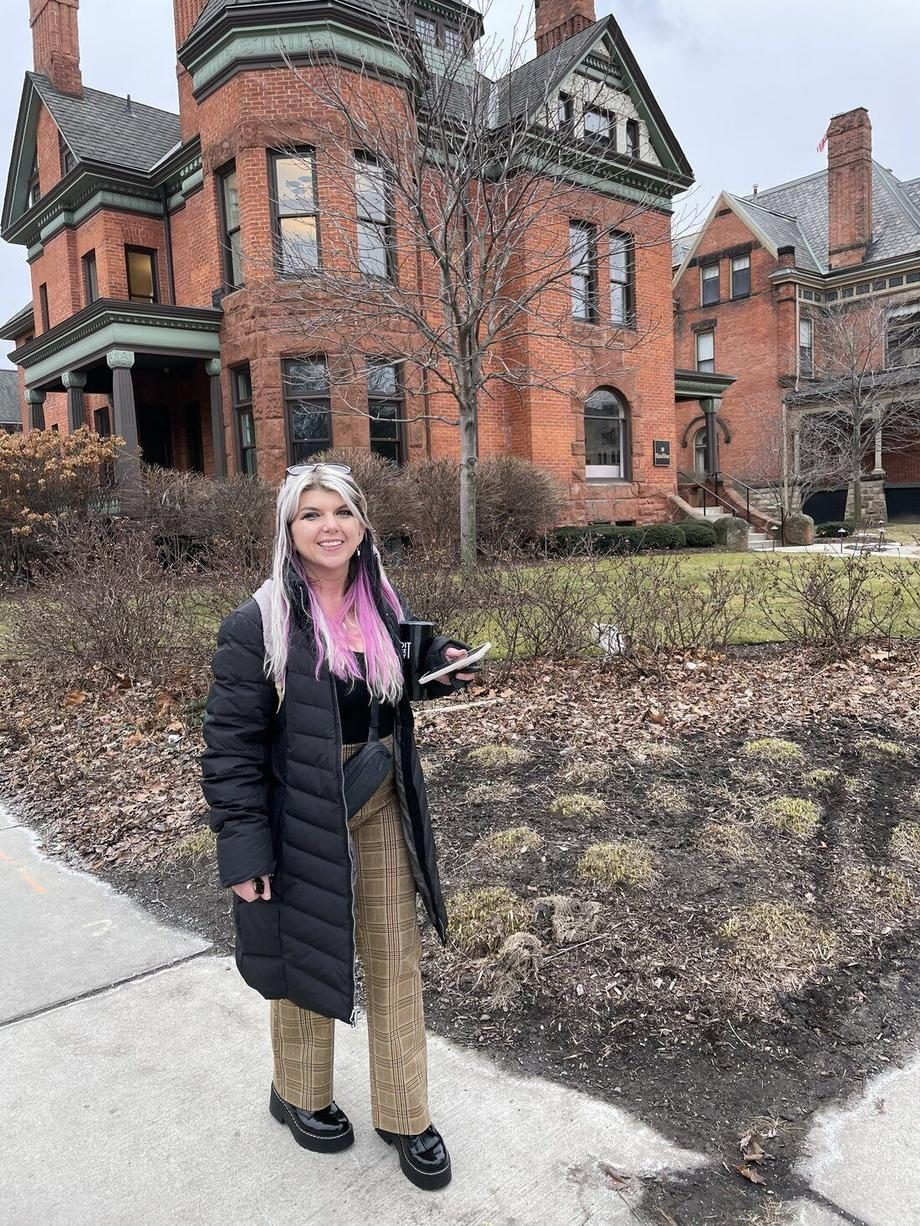
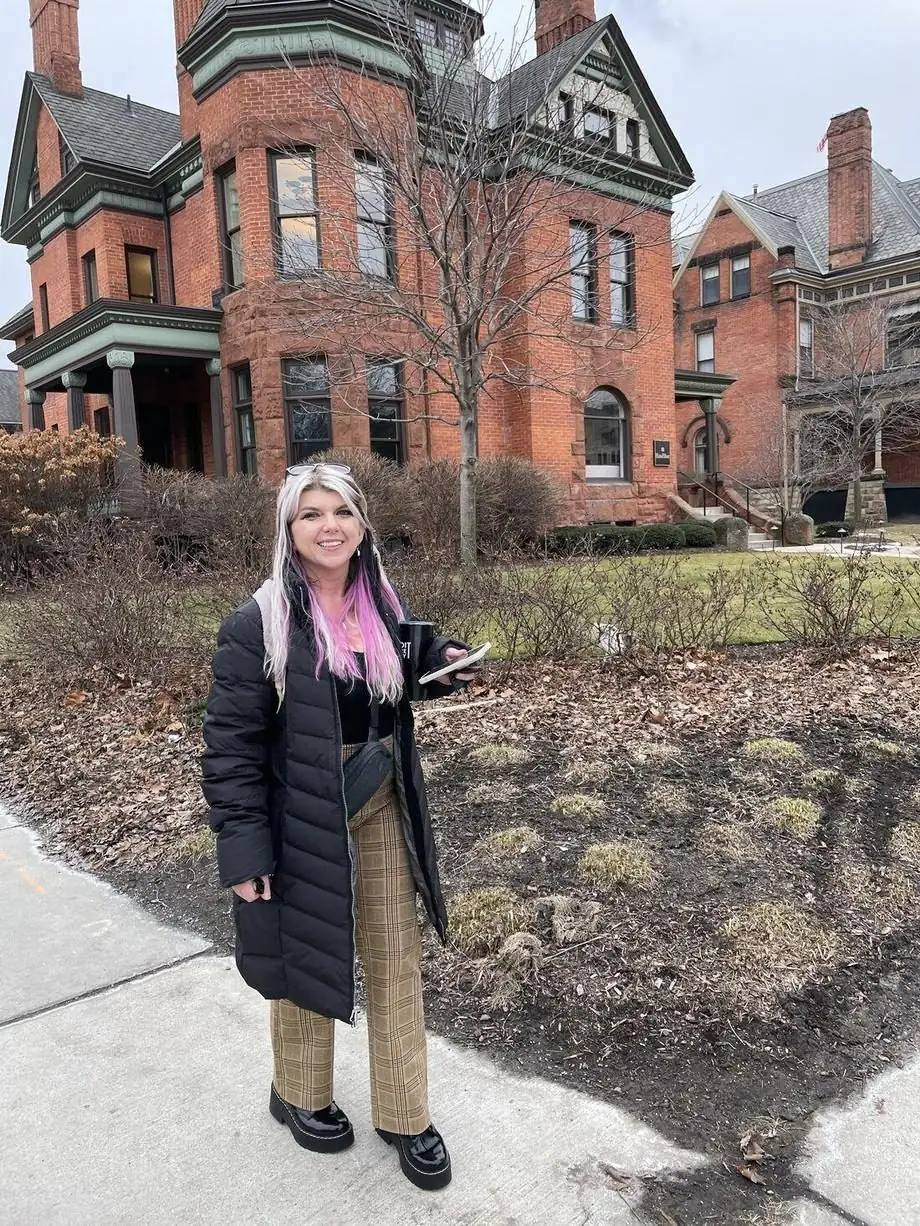
PageSpeed: stop font layout shift (display=optional), responsive hero image, contrast fixes, accurate hero alt text
Claude-Session: https://claude.ai/code/session_013Vc8LnxvvY7V6sP34YqWDe

diff --git a/fractional-cmo-detroit.html b/fractional-cmo-detroit.html
@@ -9,9 +9,9 @@
 <meta property="og:title" content="Fractional CMO in Detroit, Michigan"><meta property="og:description" content="Fractional CMO and VP of Growth in Detroit, Michigan. Senior marketing leadership part-time, for companies at $1M to $50M. Strategy, systems, and AI.">
 <meta property="og:url" content="https://frdtlab.com/fractional-cmo-detroit"><meta property="og:image" content="https://frdtlab.com/og-fractional-cmo-detroit.jpg"><meta property="og:image:alt" content="Fractional CMO in Detroit, Michigan"><meta name="twitter:image" content="https://frdtlab.com/og-fractional-cmo-detroit.jpg"><meta name="twitter:image:alt" content="Fractional CMO in Detroit, Michigan"><meta name="twitter:image:alt" content="Fractional CMO in Detroit, Michigan">
 <meta name="twitter:card" content="summary_large_image">
-<link rel="preload" as="style" href="https://fonts.googleapis.com/css2?family=Archivo:wght@700;800;900&family=Inter:wght@400;500;600;700;800;900&family=JetBrains+Mono:wght@400;500&display=swap">
-<link href="https://fonts.googleapis.com/css2?family=Archivo:wght@700;800;900&family=Inter:wght@400;500;600;700;800;900&family=JetBrains+Mono:wght@400;500&display=swap" rel="stylesheet" media="print" onload="this.media='all'">
-<noscript><link href="https://fonts.googleapis.com/css2?family=Archivo:wght@700;800;900&family=Inter:wght@400;500;600;700;800;900&family=JetBrains+Mono:wght@400;500&display=swap" rel="stylesheet"></noscript>
+<link rel="preload" as="style" href="https://fonts.googleapis.com/css2?family=Archivo:wght@700;800;900&family=Inter:wght@400;500;600;700;800;900&family=JetBrains+Mono:wght@400;500&display=optional">
+<link href="https://fonts.googleapis.com/css2?family=Archivo:wght@700;800;900&family=Inter:wght@400;500;600;700;800;900&family=JetBrains+Mono:wght@400;500&display=optional" rel="stylesheet" media="print" onload="this.media='all'">
+<noscript><link href="https://fonts.googleapis.com/css2?family=Archivo:wght@700;800;900&family=Inter:wght@400;500;600;700;800;900&family=JetBrains+Mono:wght@400;500&display=optional" rel="stylesheet"></noscript>
 <script type="application/ld+json">
 {"@context":"https://schema.org","@graph":[{"@type":"ProfessionalService","@id":"https://frdtlab.com/fractional-cmo-detroit#biz","name":"FRDTLAB, Fractional CMO Detroit","description":"Detroit-rooted fractional CMO and VP of Growth for Michigan companies. Senior marketing leadership part-time, growth strategy, marketing systems, and AI readiness.","url":"https://frdtlab.com/fractional-cmo-detroit","priceRange":"$5,000 to $15,000/mo","areaServed":[{"@type":"City","name":"Detroit"},{"@type":"AdministrativeArea","name":"Metro Detroit"},{"@type":"State","name":"Michigan"},{"@type":"Country","name":"United States"}],"address":{"@type":"PostalAddress","addressLocality":"Detroit","addressRegion":"MI","addressCountry":"US"},"geo":{"@type":"GeoCoordinates","latitude":42.3314,"longitude":-83.0458},"founder":{"@type":"Person","name":"Amanda Friedt","alternateName":"Amanda Farley","jobTitle":"Fractional CMO & Growth Operator","sameAs":["https://www.linkedin.com/in/amandafriedt/","https://afrdtlab.substack.com/","https://theunapologeticleader.com/"],"homeLocation":{"@type":"Place","name":"Detroit, Michigan"}},"provider":{"@type":"Person","name":"Amanda Friedt","alternateName":"Amanda Farley","jobTitle":"Fractional CMO & Growth Operator","sameAs":["https://www.linkedin.com/in/amandafriedt/","https://afrdtlab.substack.com/","https://theunapologeticleader.com/"],"homeLocation":{"@type":"Place","name":"Detroit, Michigan"}},"serviceType":["Fractional CMO","VP of Growth","Marketing consulting","AI marketing"],"makesOffer":{"@type":"Offer","priceCurrency":"USD","priceSpecification":{"@type":"PriceSpecification","minPrice":5000,"maxPrice":15000,"priceCurrency":"USD","unitText":"MONTH"}}},{"@type":"FAQPage","mainEntity":[{"@type":"Question","name":"Do you offer fractional CMO services in Detroit?","acceptedAnswer":{"@type":"Answer","text":"Yes. FRDTLAB is Detroit-rooted. I work with metro Detroit and Michigan companies in person, and with teams across the US remotely \u2014 same senior marketing leadership either way."}},{"@type":"Question","name":"How much does a fractional CMO cost in Detroit?","acceptedAnswer":{"@type":"Answer","text":"Engagements run $5,000\u2013$15,000 per month depending on scope and time commitment, typically on a 3\u20136 month minimum. Most start with a short paid diagnostic so we both know it's a fit before the retainer."}},{"@type":"Question","name":"What kinds of Detroit and Michigan companies do you work with?","acceptedAnswer":{"@type":"Answer","text":"Founders and leadership teams at roughly $1M\u2013$50M in revenue \u2014 companies where marketing has stalled or scattered and needs a senior owner, but can't justify a full-time $250K+ CMO yet."}},{"@type":"Question","name":"Can you meet in person in metro Detroit?","acceptedAnswer":{"@type":"Answer","text":"Yes. For metro Detroit and Michigan engagements I'm available in person for working sessions and leadership offsites; the ongoing work runs remotely in between."}}]},{"@type":"BreadcrumbList","itemListElement":[{"@type":"ListItem","position":1,"name":"Fractional CMO","item":"https://frdtlab.com/fractional-cmo"},{"@type":"ListItem","position":2,"name":"Fractional CMO Detroit","item":"https://frdtlab.com/fractional-cmo-detroit"}]}]}
 </script>

diff --git a/about.html b/about.html
@@ -9,9 +9,9 @@
 <meta property="og:title" content="About Amanda Friedt, Founder of FRDTLAB"><meta property="og:description" content="Amanda Friedt is a Detroit growth and marketing operator with 20 years across global brands, VP roles, and small business. The story and method behind FRDTLAB.">
 <meta property="og:url" content="https://frdtlab.com/about"><meta property="og:image" content="https://frdtlab.com/og-about.jpg"><meta property="og:image:alt" content="About Amanda Friedt, founder of FRDTLAB: intelligence infrastructure for AI-era marketing"><meta name="twitter:image" content="https://frdtlab.com/og-about.jpg"><meta name="twitter:image:alt" content="About Amanda Friedt, founder of FRDTLAB: intelligence infrastructure for AI-era marketing"><meta name="twitter:image:alt" content="About Amanda Friedt, founder of FRDTLAB: intelligence infrastructure for AI-era marketing">
 <meta name="twitter:card" content="summary_large_image">
-<link rel="preload" as="style" href="https://fonts.googleapis.com/css2?family=Archivo:wght@700;800;900&family=Inter:wght@400;500;600;700;800;900&family=JetBrains+Mono:wght@400;500&display=swap">
-<link href="https://fonts.googleapis.com/css2?family=Archivo:wght@700;800;900&family=Inter:wght@400;500;600;700;800;900&family=JetBrains+Mono:wght@400;500&display=swap" rel="stylesheet" media="print" onload="this.media='all'">
-<noscript><link href="https://fonts.googleapis.com/css2?family=Archivo:wght@700;800;900&family=Inter:wght@400;500;600;700;800;900&family=JetBrains+Mono:wght@400;500&display=swap" rel="stylesheet"></noscript>
+<link rel="preload" as="style" href="https://fonts.googleapis.com/css2?family=Archivo:wght@700;800;900&family=Inter:wght@400;500;600;700;800;900&family=JetBrains+Mono:wght@400;500&display=optional">
+<link href="https://fonts.googleapis.com/css2?family=Archivo:wght@700;800;900&family=Inter:wght@400;500;600;700;800;900&family=JetBrains+Mono:wght@400;500&display=optional" rel="stylesheet" media="print" onload="this.media='all'">
+<noscript><link href="https://fonts.googleapis.com/css2?family=Archivo:wght@700;800;900&family=Inter:wght@400;500;600;700;800;900&family=JetBrains+Mono:wght@400;500&display=optional" rel="stylesheet"></noscript>
 <script type="application/ld+json">
 {"@context":"https://schema.org","@graph":[{"@type":"ProfilePage","@id":"https://frdtlab.com/about#profile","url":"https://frdtlab.com/about","name":"About Amanda Friedt","mainEntity":{"@id":"https://frdtlab.com/#amanda"}},{"@type":"Person","@id":"https://frdtlab.com/#amanda","name":"Amanda Friedt","alternateName":["Amanda Farley","Amanda Friedt Farley"],"jobTitle":"Founder & Fractional CMO","description":"Detroit-based growth and marketing operator. Founder of FRDTLAB and creator of the Unapologetic Leadership movement; keynote speaker and 4x 2026 US Search Awards winner. Two decades in integrated marketing, paid search, SEO, and AI-era (generative engine) optimization.","url":"https://frdtlab.com/about","image":"https://frdtlab.com/img/headshot.jpg","worksFor":{"@type":"Organization","name":"FRDTLAB","url":"https://frdtlab.com/"},"founder":[{"@type":"Organization","name":"FRDTLAB","url":"https://frdtlab.com/"},{"@type":"Organization","name":"The Unapologetic Leader","url":"https://theunapologeticleader.com/"}],"homeLocation":{"@type":"Place","name":"Detroit, Michigan"},"knowsAbout":["Fractional CMO","Growth strategy","Integrated marketing","Marketing operations","AI adoption","Generative engine optimization","AI-era search","Paid search","SEO","Audience intelligence","Marketing infrastructure","Leadership"],"sameAs":["https://www.linkedin.com/in/amandafriedt/","https://afrdtlab.substack.com/","https://theunapologeticleader.com/","https://www.instagram.com/unapologetic_leader/","https://www.tiktok.com/@unapologeticleadership"]},{"@type":"FAQPage","mainEntity":[{"@type":"Question","name":"Who is Amanda Friedt?","acceptedAnswer":{"@type":"Answer","text":"Amanda Friedt is a Detroit-based growth and marketing operator with two decades in integrated marketing and AI-era search. She's the founder of FRDTLAB, creator of the Unapologetic Leadership movement, a speaker at SMX and Pubcon, and a 4x 2026 US Search Awards winner."}},{"@type":"Question","name":"Is Amanda Friedt the same person as Amanda Farley?","acceptedAnswer":{"@type":"Answer","text":"Yes. Amanda Friedt is professionally also known as Amanda Farley \u2014 the same marketing leader behind two decades of work in paid search, SEO, and AI-era (generative engine) optimization. Both names refer to one person."}},{"@type":"Question","name":"What does Amanda Friedt do?","acceptedAnswer":{"@type":"Answer","text":"She builds marketing systems and growth strategy for companies \u2014 as a fractional CMO/VP of Growth, AI-adoption lead, and marketing-operations architect through FRDTLAB \u2014 and leads The Unapologetic Leader, a movement for high-capacity women."}},{"@type":"Question","name":"Where is Amanda Friedt based?","acceptedAnswer":{"@type":"Answer","text":"Detroit, Michigan. She works with metro Detroit and Michigan companies in person and with teams across the US remotely."}}]}]}
 </script>

diff --git a/marketing-ops.html b/marketing-ops.html
@@ -11,9 +11,9 @@
 <meta name="twitter:card" content="summary_large_image">
 <link rel="preconnect" href="https://fonts.googleapis.com">
 <link rel="preconnect" href="https://fonts.gstatic.com" crossorigin>
-<link rel="preload" as="style" href="https://fonts.googleapis.com/css2?family=Archivo:wght@700;800;900&family=Inter:wght@400;500;600;700;800;900&family=JetBrains+Mono:wght@400;500&display=swap">
-<link href="https://fonts.googleapis.com/css2?family=Archivo:wght@700;800;900&family=Inter:wght@400;500;600;700;800;900&family=JetBrains+Mono:wght@400;500&display=swap" rel="stylesheet" media="print" onload="this.media='all'">
-<noscript><link href="https://fonts.googleapis.com/css2?family=Archivo:wght@700;800;900&family=Inter:wght@400;500;600;700;800;900&family=JetBrains+Mono:wght@400;500&display=swap" rel="stylesheet"></noscript>
+<link rel="preload" as="style" href="https://fonts.googleapis.com/css2?family=Archivo:wght@700;800;900&family=Inter:wght@400;500;600;700;800;900&family=JetBrains+Mono:wght@400;500&display=optional">
+<link href="https://fonts.googleapis.com/css2?family=Archivo:wght@700;800;900&family=Inter:wght@400;500;600;700;800;900&family=JetBrains+Mono:wght@400;500&display=optional" rel="stylesheet" media="print" onload="this.media='all'">
+<noscript><link href="https://fonts.googleapis.com/css2?family=Archivo:wght@700;800;900&family=Inter:wght@400;500;600;700;800;900&family=JetBrains+Mono:wght@400;500&display=optional" rel="stylesheet"></noscript>
 <script type="application/ld+json">
 {"@context":"https://schema.org","@graph":[{"@type":"Service","name":"Marketing Operations & Systems","serviceType":"Marketing operations audit and marketing operating system builds","description":"Marketing operations consulting","url":"https://frdtlab.com/marketing-ops","provider":{"@type":"Person","name":"Amanda Friedt","jobTitle":"Growth & Marketing Operator","sameAs":["https://www.linkedin.com/in/amandafriedt/","https://afrdtlab.substack.com/","https://theunapologeticleader.com/"],"knowsAbout":["Fractional CMO","Marketing operations","AI adoption","Generative engine optimization","Growth strategy"],"homeLocation":{"@type":"Place","name":"Detroit, Michigan"}},"areaServed":[{"@type":"Place","name":"Detroit, Michigan"},{"@type":"Country","name":"United States"}],"offers":{"@type":"Offer","priceCurrency":"USD","priceSpecification":{"@type":"PriceSpecification","minPrice":2500,"maxPrice":30000,"priceCurrency":"USD","unitText":"project"}}},{"@type":"FAQPage","mainEntity":[{"@type":"Question","name":"What is a marketing operating system?","acceptedAnswer":{"@type":"Answer","text":"The connected layer underneath your marketing \u2014 data, tools, workflows, and reporting wired so every optimization feeds the next one, instead of five disconnected tools nobody trusts. It's how marketing scales without breaking."}},{"@type":"Question","name":"Why are my marketing tools not talking to each other?","acceptedAnswer":{"@type":"Answer","text":"Usually because they were bought one at a time to solve separate problems, with no shared data model or owner. An audit maps the stack, finds where the data breaks, and rebuilds it into one system."}},{"@type":"Question","name":"What's the difference between the audit and the build?","acceptedAnswer":{"@type":"Answer","text":"The audit ($2,500) diagnoses your stack, data flow, and reporting and gives you a prioritized plan. The build ($10,000\u2013$30,000) implements it \u2014 connecting tools, fixing the data model, and standing up reporting you can trust."}},{"@type":"Question","name":"How do I build an AI marketing operating system?","acceptedAnswer":{"@type":"Answer","text":"Start with the operating system, not the AI. Get the data and workflows clean and connected first; then layer agentic and assisted steps on top. AI amplifies whatever foundation it lands on \u2014 so the foundation comes first."}}]}]}
 </script>

diff --git a/fractional-cmo.html b/fractional-cmo.html
@@ -11,9 +11,9 @@
 <meta name="twitter:card" content="summary_large_image">
 <link rel="preconnect" href="https://fonts.googleapis.com">
 <link rel="preconnect" href="https://fonts.gstatic.com" crossorigin>
-<link rel="preload" as="style" href="https://fonts.googleapis.com/css2?family=Archivo:wght@700;800;900&family=Inter:wght@400;500;600;700;800;900&family=JetBrains+Mono:wght@400;500&display=swap">
-<link href="https://fonts.googleapis.com/css2?family=Archivo:wght@700;800;900&family=Inter:wght@400;500;600;700;800;900&family=JetBrains+Mono:wght@400;500&display=swap" rel="stylesheet" media="print" onload="this.media='all'">
-<noscript><link href="https://fonts.googleapis.com/css2?family=Archivo:wght@700;800;900&family=Inter:wght@400;500;600;700;800;900&family=JetBrains+Mono:wght@400;500&display=swap" rel="stylesheet"></noscript>
+<link rel="preload" as="style" href="https://fonts.googleapis.com/css2?family=Archivo:wght@700;800;900&family=Inter:wght@400;500;600;700;800;900&family=JetBrains+Mono:wght@400;500&display=optional">
+<link href="https://fonts.googleapis.com/css2?family=Archivo:wght@700;800;900&family=Inter:wght@400;500;600;700;800;900&family=JetBrains+Mono:wght@400;500&display=optional" rel="stylesheet" media="print" onload="this.media='all'">
+<noscript><link href="https://fonts.googleapis.com/css2?family=Archivo:wght@700;800;900&family=Inter:wght@400;500;600;700;800;900&family=JetBrains+Mono:wght@400;500&display=optional" rel="stylesheet"></noscript>
 <script type="application/ld+json">
 {"@context":"https://schema.org","@graph":[{"@type":"Service","name":"Fractional CMO / VP of Growth","serviceType":"Fractional CMO and VP of Growth services","description":"Fractional marketing leadership","url":"https://frdtlab.com/fractional-cmo","provider":{"@type":"Person","name":"Amanda Friedt","jobTitle":"Growth & Marketing Operator","sameAs":["https://www.linkedin.com/in/amandafriedt/","https://afrdtlab.substack.com/","https://theunapologeticleader.com/"],"knowsAbout":["Fractional CMO","Marketing operations","AI adoption","Generative engine optimization","Growth strategy"],"homeLocation":{"@type":"Place","name":"Detroit, Michigan"}},"areaServed":[{"@type":"Place","name":"Detroit, Michigan"},{"@type":"Country","name":"United States"}],"offers":{"@type":"Offer","priceCurrency":"USD","priceSpecification":{"@type":"PriceSpecification","minPrice":5000,"maxPrice":15000,"priceCurrency":"USD","unitText":"MONTH"}}},{"@type":"FAQPage","mainEntity":[{"@type":"Question","name":"What is a fractional CMO and how is it different from an agency?","acceptedAnswer":{"@type":"Answer","text":"A fractional CMO is a senior marketing leader who owns your growth strategy part-time \u2014 setting direction, building the system, and managing execution \u2014 without a full-time exec salary. An agency runs campaigns; a fractional CMO decides which campaigns to run and why, then makes the whole engine work together."}},{"@type":"Question","name":"When should I hire a fractional CMO or VP of Growth?","acceptedAnswer":{"@type":"Answer","text":"Usually when revenue is $1M\u2013$50M, marketing has stalled or scattered across tools and people, and you need senior direction but can't justify a $250K+ full-time CMO yet. If your team is busy but growth is flat, that's the signal."}},{"@type":"Question","name":"How much does a fractional CMO cost?","acceptedAnswer":{"@type":"Answer","text":"Engagements run $5,000\u2013$15,000 per month depending on scope and time commitment, typically on a 3\u20136 month minimum so the system has time to compound."}},{"@type":"Question","name":"Do you work remotely or only in Detroit?","acceptedAnswer":{"@type":"Answer","text":"Both. FRDTLAB is Detroit-rooted and works with Michigan companies in person, and with teams across the US remotely."}}]}]}
 </script>

diff --git a/ai-adoption.html b/ai-adoption.html
@@ -11,9 +11,9 @@
 <meta name="twitter:card" content="summary_large_image">
 <link rel="preconnect" href="https://fonts.googleapis.com">
 <link rel="preconnect" href="https://fonts.gstatic.com" crossorigin>
-<link rel="preload" as="style" href="https://fonts.googleapis.com/css2?family=Archivo:wght@700;800;900&family=Inter:wght@400;500;600;700;800;900&family=JetBrains+Mono:wght@400;500&display=swap">
-<link href="https://fonts.googleapis.com/css2?family=Archivo:wght@700;800;900&family=Inter:wght@400;500;600;700;800;900&family=JetBrains+Mono:wght@400;500&display=swap" rel="stylesheet" media="print" onload="this.media='all'">
-<noscript><link href="https://fonts.googleapis.com/css2?family=Archivo:wght@700;800;900&family=Inter:wght@400;500;600;700;800;900&family=JetBrains+Mono:wght@400;500&display=swap" rel="stylesheet"></noscript>
+<link rel="preload" as="style" href="https://fonts.googleapis.com/css2?family=Archivo:wght@700;800;900&family=Inter:wght@400;500;600;700;800;900&family=JetBrains+Mono:wght@400;500&display=optional">
+<link href="https://fonts.googleapis.com/css2?family=Archivo:wght@700;800;900&family=Inter:wght@400;500;600;700;800;900&family=JetBrains+Mono:wght@400;500&display=optional" rel="stylesheet" media="print" onload="this.media='all'">
+<noscript><link href="https://fonts.googleapis.com/css2?family=Archivo:wght@700;800;900&family=Inter:wght@400;500;600;700;800;900&family=JetBrains+Mono:wght@400;500&display=optional" rel="stylesheet"></noscript>
 <script type="application/ld+json">
 {"@context":"https://schema.org","@graph":[{"@type":"Service","name":"AI Adoption for Marketing Teams","serviceType":"AI adoption, automation, and human + AI workflow design for marketing teams","description":"AI marketing operations","url":"https://frdtlab.com/ai-adoption","provider":{"@type":"Person","name":"Amanda Friedt","jobTitle":"Growth & Marketing Operator","sameAs":["https://www.linkedin.com/in/amandafriedt/","https://afrdtlab.substack.com/","https://theunapologeticleader.com/"],"knowsAbout":["Fractional CMO","Marketing operations","AI adoption","Generative engine optimization","Growth strategy"],"homeLocation":{"@type":"Place","name":"Detroit, Michigan"}},"areaServed":[{"@type":"Place","name":"Detroit, Michigan"},{"@type":"Country","name":"United States"}],"offers":{"@type":"Offer","priceCurrency":"USD","priceSpecification":{"@type":"PriceSpecification","minPrice":8000,"maxPrice":25000,"priceCurrency":"USD","unitText":"project"}}},{"@type":"FAQPage","mainEntity":[{"@type":"Question","name":"What does AI adoption for a marketing team actually involve?","acceptedAnswer":{"@type":"Answer","text":"Installing AI where it does real work \u2014 content production, lead follow-up, reporting, campaign QA \u2014 with the prompts, workflows, and guardrails so it runs reliably. Not a tool demo; a working system your team can operate."}},{"@type":"Question","name":"How do you automate marketing campaigns with AI?","acceptedAnswer":{"@type":"Answer","text":"By mapping the repeatable parts of your campaign workflow, building agentic or assisted steps for the ones AI does well, and keeping human judgment on strategy and brand. Faster cycles without losing the human underneath."}},{"@type":"Question","name":"How much does an AI adoption project cost?","acceptedAnswer":{"@type":"Answer","text":"Projects run $8,000\u2013$25,000 depending on how many systems we build and how deep the integration goes. Most start with one or two highest-impact workflows and expand."}},{"@type":"Question","name":"Will this replace my marketing team?","acceptedAnswer":{"@type":"Answer","text":"No. It removes the busywork that didn't need a human so your team spends time on the work that does \u2014 taste, strategy, and the calls the data can't make."}}]}]}
 </script>

diff --git a/index.html b/index.html
@@ -26,9 +26,9 @@
 
 <link rel="preconnect" href="https://fonts.googleapis.com">
 <link rel="preconnect" href="https://fonts.gstatic.com" crossorigin>
-<link rel="preload" as="style" href="https://fonts.googleapis.com/css2?family=Archivo:wght@700;800;900&family=Inter:wght@400;500;600;700;800;900&family=JetBrains+Mono:wght@400;500&display=swap">
-<link href="https://fonts.googleapis.com/css2?family=Archivo:wght@700;800;900&family=Inter:wght@400;500;600;700;800;900&family=JetBrains+Mono:wght@400;500&display=swap" rel="stylesheet" media="print" onload="this.media='all'">
-<noscript><link href="https://fonts.googleapis.com/css2?family=Archivo:wght@700;800;900&family=Inter:wght@400;500;600;700;800;900&family=JetBrains+Mono:wght@400;500&display=swap" rel="stylesheet"></noscript>
+<link rel="preload" as="style" href="https://fonts.googleapis.com/css2?family=Archivo:wght@700;800;900&family=Inter:wght@400;500;600;700;800;900&family=JetBrains+Mono:wght@400;500&display=optional">
+<link href="https://fonts.googleapis.com/css2?family=Archivo:wght@700;800;900&family=Inter:wght@400;500;600;700;800;900&family=JetBrains+Mono:wght@400;500&display=optional" rel="stylesheet" media="print" onload="this.media='all'">
+<noscript><link href="https://fonts.googleapis.com/css2?family=Archivo:wght@700;800;900&family=Inter:wght@400;500;600;700;800;900&family=JetBrains+Mono:wght@400;500&display=optional" rel="stylesheet"></noscript>
 
 <!-- JSON-LD: machine-readable authority -->
 <script type="application/ld+json">
@@ -203,7 +203,8 @@ section{position:relative}
 .flow{display:grid;grid-template-columns:repeat(5,1fr);gap:1px;background:var(--line);border:1px solid var(--line)}
 .step{background:var(--charcoal);padding:34px 24px;display:flex;flex-direction:column;gap:12px;transition:background .4s}
 .step:hover{background:var(--panel)}
-.step .s-num{font-family:var(--mono);font-size:11px;letter-spacing:.2em;color:var(--pink)}
+.step .s-num{font-family:var(--mono);font-size:11px;letter-spacing:.2em;color:#F47DB8}
+.imc p a{color:#F47DB8}
 .step h3,.step h4{font-family:var(--display);font-weight:700;text-transform:uppercase;font-size:1.5rem;line-height:1;color:var(--white)}
 .step ul{list-style:none;display:flex;flex-direction:column;gap:5px}
 .step li{font-size:.92rem;color:var(--body-text);font-weight:400}
@@ -466,7 +467,7 @@ h1,h2,h3,h4,h5{font-family:'Archivo',system-ui,sans-serif!important;font-weight:
       </div>
     </div>
     <div class="hero-photo reveal">
-      <picture><source srcset="img/detroit.webp" type="image/webp"><img src="img/detroit.jpg" width="1100" height="1467" alt="Detroit cityscape, the lab's home ground" fetchpriority="high" decoding="async"></picture>
+      <picture><source srcset="img/detroit-480.webp 480w, img/detroit-720.webp 720w, img/detroit-920.webp 920w" sizes="(max-width: 900px) 92vw, 460px" type="image/webp"><img src="img/detroit.jpg" width="920" height="1226" alt="Amanda Friedt, founder of FRDTLAB, outside a historic brick home in Detroit" fetchpriority="high" decoding="async"></picture>
       <span class="tag">Detroit-rooted · Future-facing</span>
     </div>
   </div>

diff --git a/competence-trap.html b/competence-trap.html
@@ -10,9 +10,9 @@
 <meta property="og:url" content="https://frdtlab.com/competence-trap"><meta property="og:image" content="https://frdtlab.com/img/elephant-in-the-room.jpg">
 <meta name="twitter:card" content="summary_large_image"><meta name="twitter:title" content="The Competence Trap"><meta name="twitter:description" content="When being capable quietly becomes a cage. Research No. 001 from FRDTLAB.">
 <link rel="preconnect" href="https://fonts.googleapis.com"><link rel="preconnect" href="https://fonts.gstatic.com" crossorigin>
-<link rel="preload" as="style" href="https://fonts.googleapis.com/css2?family=Archivo:wght@700;800;900&family=Inter:wght@400;500;600;700;800;900&family=Newsreader:ital,opsz,wght@0,6..72,400;0,6..72,500;1,6..72,400&family=JetBrains+Mono:wght@400;500&display=swap">
-<link href="https://fonts.googleapis.com/css2?family=Archivo:wght@700;800;900&family=Inter:wght@400;500;600;700;800;900&family=Newsreader:ital,opsz,wght@0,6..72,400;0,6..72,500;1,6..72,400&family=JetBrains+Mono:wght@400;500&display=swap" rel="stylesheet" media="print" onload="this.media='all'">
-<noscript><link href="https://fonts.googleapis.com/css2?family=Archivo:wght@700;800;900&family=Inter:wght@400;500;600;700;800;900&family=Newsreader:ital,opsz,wght@0,6..72,400;0,6..72,500;1,6..72,400&family=JetBrains+Mono:wght@400;500&display=swap" rel="stylesheet"></noscript>
+<link rel="preload" as="style" href="https://fonts.googleapis.com/css2?family=Archivo:wght@700;800;900&family=Inter:wght@400;500;600;700;800;900&family=Newsreader:ital,opsz,wght@0,6..72,400;0,6..72,500;1,6..72,400&family=JetBrains+Mono:wght@400;500&display=optional">
+<link href="https://fonts.googleapis.com/css2?family=Archivo:wght@700;800;900&family=Inter:wght@400;500;600;700;800;900&family=Newsreader:ital,opsz,wght@0,6..72,400;0,6..72,500;1,6..72,400&family=JetBrains+Mono:wght@400;500&display=optional" rel="stylesheet" media="print" onload="this.media='all'">
+<noscript><link href="https://fonts.googleapis.com/css2?family=Archivo:wght@700;800;900&family=Inter:wght@400;500;600;700;800;900&family=Newsreader:ital,opsz,wght@0,6..72,400;0,6..72,500;1,6..72,400&family=JetBrains+Mono:wght@400;500&display=optional" rel="stylesheet"></noscript>
 <script type="application/ld+json">
 {"@context":"https://schema.org","@type":"Article","headline":"The Competence Trap","alternativeHeadline":"Research No. 001: The hidden cost of competence","author":{"@type":"Person","name":"Amanda Friedt"},"publisher":{"@type":"Organization","name":"FRDTLAB","url":"https://frdtlab.com/"},"datePublished":"2026-06-30","mainEntityOfPage":"https://frdtlab.com/competence-trap","image":"https://frdtlab.com/img/elephant-in-the-room.jpg","description":"Research into the hidden cost of competence: how capable people and capable businesses become load-bearing single points of failure, and how to set down what was never theirs to carry."}
 </script>

diff --git a/scorecard.html b/scorecard.html
@@ -10,9 +10,9 @@
 <meta property="og:url" content="https://frdtlab.com/scorecard"><meta property="og:image" content="https://frdtlab.com/og-scorecard.jpg"><meta property="og:image:alt" content="Free AI Visibility Scorecard: can AI see your brand?"><meta name="twitter:image" content="https://frdtlab.com/og-scorecard.jpg"><meta name="twitter:image:alt" content="Free AI Visibility Scorecard: can AI see your brand?"><meta name="twitter:image:alt" content="Free AI Visibility Scorecard: can AI see your brand?">
 <meta name="twitter:card" content="summary_large_image"><meta name="twitter:title" content="Free AI Visibility Scorecard: Can AI See Your Brand?"><meta name="twitter:description" content="Can AI and search engines actually see your brand? Take the free 2-minute AI Visibility Scorecard from FRDTLAB and find where you are invisible.">
 <link rel="preconnect" href="https://fonts.googleapis.com"><link rel="preconnect" href="https://fonts.gstatic.com" crossorigin>
-<link rel="preload" as="style" href="https://fonts.googleapis.com/css2?family=Archivo:wght@700;800;900&family=Inter:wght@400;500;600;700;800;900&family=JetBrains+Mono:wght@400;500&display=swap">
-<link href="https://fonts.googleapis.com/css2?family=Archivo:wght@700;800;900&family=Inter:wght@400;500;600;700;800;900&family=JetBrains+Mono:wght@400;500&display=swap" rel="stylesheet" media="print" onload="this.media='all'">
-<noscript><link href="https://fonts.googleapis.com/css2?family=Archivo:wght@700;800;900&family=Inter:wght@400;500;600;700;800;900&family=JetBrains+Mono:wght@400;500&display=swap" rel="stylesheet"></noscript>
+<link rel="preload" as="style" href="https://fonts.googleapis.com/css2?family=Archivo:wght@700;800;900&family=Inter:wght@400;500;600;700;800;900&family=JetBrains+Mono:wght@400;500&display=optional">
+<link href="https://fonts.googleapis.com/css2?family=Archivo:wght@700;800;900&family=Inter:wght@400;500;600;700;800;900&family=JetBrains+Mono:wght@400;500&display=optional" rel="stylesheet" media="print" onload="this.media='all'">
+<noscript><link href="https://fonts.googleapis.com/css2?family=Archivo:wght@700;800;900&family=Inter:wght@400;500;600;700;800;900&family=JetBrains+Mono:wght@400;500&display=optional" rel="stylesheet"></noscript>
 <script type="application/ld+json">
 {"@context":"https://schema.org","@type":"WebApplication","name":"The AI Visibility Scorecard","applicationCategory":"BusinessApplication","operatingSystem":"Web","offers":{"@type":"Offer","price":"0","priceCurrency":"USD"},"url":"https://frdtlab.com/scorecard","creator":{"@type":"Person","name":"Amanda Friedt","sameAs":["https://www.linkedin.com/in/amandafriedt/","https://theunapologeticleader.com/"]},"description":"A self-scoring diagnostic based on FRDTLAB's Signal System: can AI search engines and recommendation systems see your brand?"}
 </script>

diff --git a/research.html b/research.html
@@ -10,9 +10,9 @@
 <meta property="og:url" content="https://frdtlab.com/research"><meta property="og:image" content="https://frdtlab.com/og-research.jpg"><meta property="og:image:alt" content="AI visibility research from the FRDTLAB Research Lab"><meta name="twitter:image" content="https://frdtlab.com/og-research.jpg"><meta name="twitter:image:alt" content="AI visibility research from the FRDTLAB Research Lab"><meta name="twitter:image:alt" content="AI visibility research from the FRDTLAB Research Lab">
 <meta name="twitter:card" content="summary_large_image"><meta name="twitter:title" content="The Research Lab: What We Found"><meta name="twitter:description" content="The numbers behind the competence trap and the move to AI search.">
 <link rel="preconnect" href="https://fonts.googleapis.com"><link rel="preconnect" href="https://fonts.gstatic.com" crossorigin>
-<link rel="preload" as="style" href="https://fonts.googleapis.com/css2?family=Archivo:wght@700;800;900&family=Inter:wght@400;500;600;700;800;900&family=JetBrains+Mono:wght@400;500&display=swap">
-<link href="https://fonts.googleapis.com/css2?family=Archivo:wght@700;800;900&family=Inter:wght@400;500;600;700;800;900&family=JetBrains+Mono:wght@400;500&display=swap" rel="stylesheet" media="print" onload="this.media='all'">
-<noscript><link href="https://fonts.googleapis.com/css2?family=Archivo:wght@700;800;900&family=Inter:wght@400;500;600;700;800;900&family=JetBrains+Mono:wght@400;500&display=swap" rel="stylesheet"></noscript>
+<link rel="preload" as="style" href="https://fonts.googleapis.com/css2?family=Archivo:wght@700;800;900&family=Inter:wght@400;500;600;700;800;900&family=JetBrains+Mono:wght@400;500&display=optional">
+<link href="https://fonts.googleapis.com/css2?family=Archivo:wght@700;800;900&family=Inter:wght@400;500;600;700;800;900&family=JetBrains+Mono:wght@400;500&display=optional" rel="stylesheet" media="print" onload="this.media='all'">
+<noscript><link href="https://fonts.googleapis.com/css2?family=Archivo:wght@700;800;900&family=Inter:wght@400;500;600;700;800;900&family=JetBrains+Mono:wght@400;500&display=optional" rel="stylesheet"></noscript>
 <script type="application/ld+json">
 {"@context":"https://schema.org","@type":"Article","headline":"The Research Lab: What We Found","author":{"@type":"Person","name":"Amanda Friedt"},"publisher":{"@type":"Organization","name":"FRDTLAB","url":"https://frdtlab.com/"},"datePublished":"2026-06-30","mainEntityOfPage":"https://frdtlab.com/research","description":"Sourced field research on the competence trap, buyer indecision, and the shift to AI search."}
 </script>

diff --git a/ai-powered-marketing-machine.html b/ai-powered-marketing-machine.html
@@ -10,9 +10,9 @@
 <meta property="og:url" content="https://frdtlab.com/ai-powered-marketing-machine"><meta property="og:image" content="https://frdtlab.com/img/elephant-in-the-room.jpg">
 <meta name="twitter:card" content="summary_large_image"><meta name="twitter:title" content="The AI-Powered Marketing Machine"><meta name="twitter:description" content="SEO and paid train the same intelligence machine. Rebuild search as one connected growth system.">
 <link rel="preconnect" href="https://fonts.googleapis.com"><link rel="preconnect" href="https://fonts.gstatic.com" crossorigin>
-<link rel="preload" as="style" href="https://fonts.googleapis.com/css2?family=Archivo:wght@700;800;900&family=Inter:wght@400;500;600;700;800;900&family=JetBrains+Mono:wght@400;500&display=swap">
-<link href="https://fonts.googleapis.com/css2?family=Archivo:wght@700;800;900&family=Inter:wght@400;500;600;700;800;900&family=JetBrains+Mono:wght@400;500&display=swap" rel="stylesheet" media="print" onload="this.media='all'">
-<noscript><link href="https://fonts.googleapis.com/css2?family=Archivo:wght@700;800;900&family=Inter:wght@400;500;600;700;800;900&family=JetBrains+Mono:wght@400;500&display=swap" rel="stylesheet"></noscript>
+<link rel="preload" as="style" href="https://fonts.googleapis.com/css2?family=Archivo:wght@700;800;900&family=Inter:wght@400;500;600;700;800;900&family=JetBrains+Mono:wght@400;500&display=optional">
+<link href="https://fonts.googleapis.com/css2?family=Archivo:wght@700;800;900&family=Inter:wght@400;500;600;700;800;900&family=JetBrains+Mono:wght@400;500&display=optional" rel="stylesheet" media="print" onload="this.media='all'">
+<noscript><link href="https://fonts.googleapis.com/css2?family=Archivo:wght@700;800;900&family=Inter:wght@400;500;600;700;800;900&family=JetBrains+Mono:wght@400;500&display=optional" rel="stylesheet"></noscript>
 <script type="application/ld+json">
 {"@context":"https://schema.org","@type":"Article","headline":"The AI-Powered Marketing Machine: Unify SEO and Paid Into One Growth System","author":{"@type":"Person","name":"Amanda Friedt"},"publisher":{"@type":"Organization","name":"FRDTLAB","url":"https://frdtlab.com/"},"datePublished":"2026-06-30","mainEntityOfPage":"https://frdtlab.com/ai-powered-marketing-machine","image":"https://frdtlab.com/img/elephant-in-the-room.jpg","description":"SEO and paid train the same intelligence machine. Why siloed teams lose in the AI era and how to rebuild search as one connected growth system."}
 </script>

diff --git a/prompt-pack.html b/prompt-pack.html
@@ -21,9 +21,9 @@
 <meta name="twitter:image" content="https://frdtlab.com/img/cover-prompt-pack.png">
 <link rel="preconnect" href="https://fonts.googleapis.com">
 <link rel="preconnect" href="https://fonts.gstatic.com" crossorigin>
-<link rel="preload" as="style" href="https://fonts.googleapis.com/css2?family=Archivo:wght@700;800;900&family=Inter:wght@400;500;600;700;800;900&family=JetBrains+Mono:wght@400;500&display=swap">
-<link href="https://fonts.googleapis.com/css2?family=Archivo:wght@700;800;900&family=Inter:wght@400;500;600;700;800;900&family=JetBrains+Mono:wght@400;500&display=swap" rel="stylesheet" media="print" onload="this.media='all'">
-<noscript><link href="https://fonts.googleapis.com/css2?family=Archivo:wght@700;800;900&family=Inter:wght@400;500;600;700;800;900&family=JetBrains+Mono:wght@400;500&display=swap" rel="stylesheet"></noscript>
+<link rel="preload" as="style" href="https://fonts.googleapis.com/css2?family=Archivo:wght@700;800;900&family=Inter:wght@400;500;600;700;800;900&family=JetBrains+Mono:wght@400;500&display=optional">
+<link href="https://fonts.googleapis.com/css2?family=Archivo:wght@700;800;900&family=Inter:wght@400;500;600;700;800;900&family=JetBrains+Mono:wght@400;500&display=optional" rel="stylesheet" media="print" onload="this.media='all'">
+<noscript><link href="https://fonts.googleapis.com/css2?family=Archivo:wght@700;800;900&family=Inter:wght@400;500;600;700;800;900&family=JetBrains+Mono:wght@400;500&display=optional" rel="stylesheet"></noscript>
 <style>
 :root{--black:#0b0b0c;--charcoal:#141417;--panel:#1b1c20;--line:#2c2d33;--steel:#b4b6bf;--steel-dim:#c9cad0;--body-text:#c4c5cc;--white:#f6f5f2;--ivory:#eceae4;--blue:#6f9bff;--blue-deep:#2f6bff;--pink:#E84393;--green:#4ad6a0;--display:"Archivo Narrow","Archivo",sans-serif;--sans:"Archivo",system-ui,sans-serif;--serif:"Newsreader",Georgia,serif;--mono:"JetBrains Mono",ui-monospace,monospace;--max:1240px;--ease:cubic-bezier(.16,1,.3,1)}
 *{margin:0;padding:0;box-sizing:border-box}

diff --git a/lipstick-and-receipts.html b/lipstick-and-receipts.html
@@ -17,9 +17,9 @@
 <meta name="twitter:card" content="summary_large_image">
 <link rel="preconnect" href="https://fonts.googleapis.com">
 <link rel="preconnect" href="https://fonts.gstatic.com" crossorigin>
-<link rel="preload" as="style" href="https://fonts.googleapis.com/css2?family=Archivo:wght@700;800;900&family=Inter:wght@400;500;600;700;800;900&family=JetBrains+Mono:wght@400;500&display=swap">
-<link href="https://fonts.googleapis.com/css2?family=Archivo:wght@700;800;900&family=Inter:wght@400;500;600;700;800;900&family=JetBrains+Mono:wght@400;500&display=swap" rel="stylesheet" media="print" onload="this.media='all'">
-<noscript><link href="https://fonts.googleapis.com/css2?family=Archivo:wght@700;800;900&family=Inter:wght@400;500;600;700;800;900&family=JetBrains+Mono:wght@400;500&display=swap" rel="stylesheet"></noscript>
+<link rel="preload" as="style" href="https://fonts.googleapis.com/css2?family=Archivo:wght@700;800;900&family=Inter:wght@400;500;600;700;800;900&family=JetBrains+Mono:wght@400;500&display=optional">
+<link href="https://fonts.googleapis.com/css2?family=Archivo:wght@700;800;900&family=Inter:wght@400;500;600;700;800;900&family=JetBrains+Mono:wght@400;500&display=optional" rel="stylesheet" media="print" onload="this.media='all'">
+<noscript><link href="https://fonts.googleapis.com/css2?family=Archivo:wght@700;800;900&family=Inter:wght@400;500;600;700;800;900&family=JetBrains+Mono:wght@400;500&display=optional" rel="stylesheet"></noscript>
 <style>
 :root{--black:#0b0b0c;--charcoal:#141417;--panel:#1b1c20;--line:#2c2d33;--steel:#b4b6bf;--steel-dim:#c9cad0;--body-text:#c4c5cc;--white:#f6f5f2;--ivory:#eceae4;--blue:#6f9bff;--blue-deep:#2f6bff;--pink:#E84393;--green:#4ad6a0;--display:"Archivo Narrow","Archivo",sans-serif;--sans:"Archivo",system-ui,sans-serif;--serif:"Newsreader",Georgia,serif;--mono:"JetBrains Mono",ui-monospace,monospace;--max:1240px;--ease:cubic-bezier(.16,1,.3,1)}
 *{margin:0;padding:0;box-sizing:border-box}
